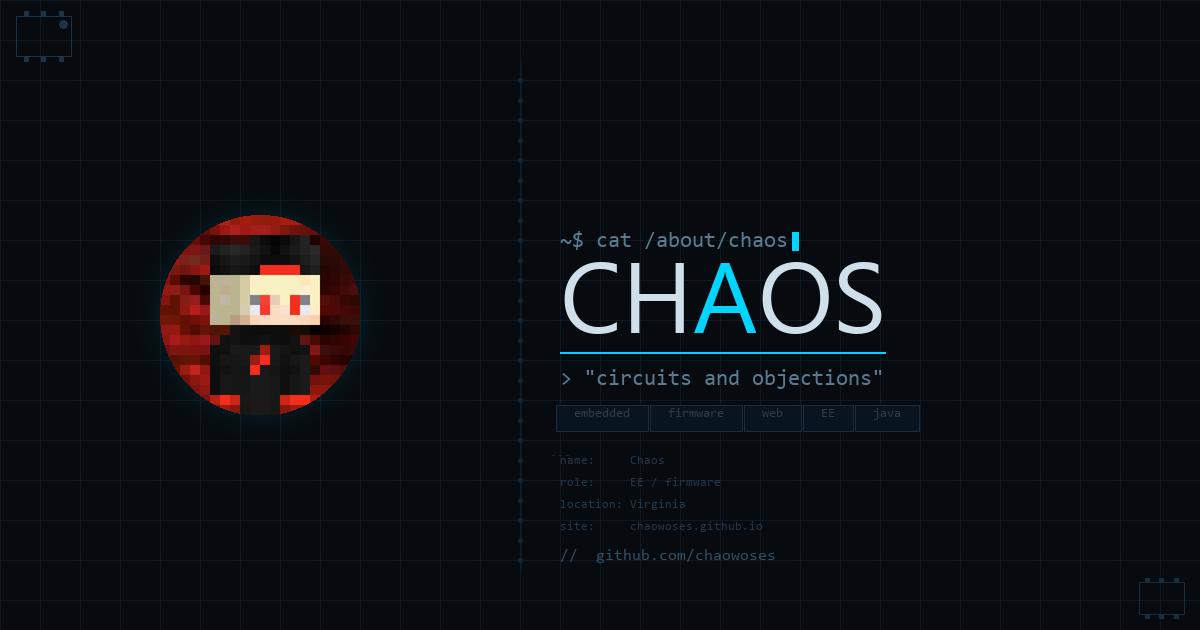
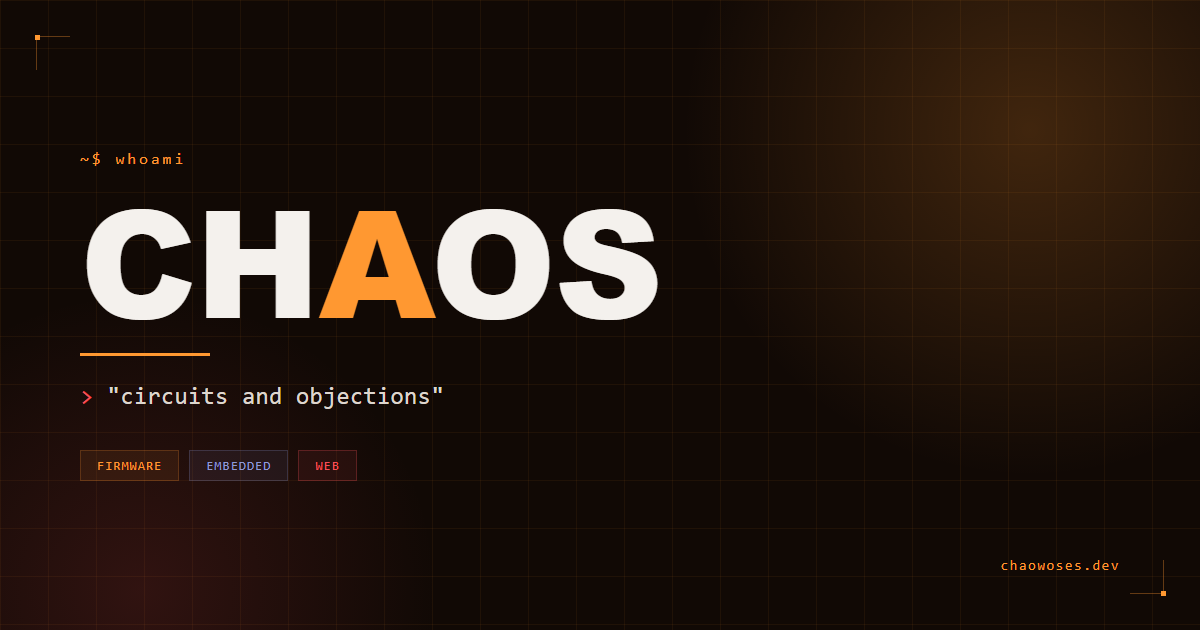
chore: update text to new domain

diff --git a/index.html b/index.html
@@ -6,14 +6,14 @@
 <title>chaowoses</title>
 <meta property="og:title" content="chaowoses">
 <meta property="og:description" content="circuits and objections">
-<meta property="og:url" content="https://chaowoses.github.io">
+<meta property="og:url" content="https://chaowoses.dev">
 <meta property="og:type" content="website">
-<meta property="og:image" content="https://chaowoses.github.io/og-image.png">
+<meta property="og:image" content="https://chaowoses.dev/og-image.png">
 <meta property="og:image:width" content="1200">
 <meta property="og:image:height" content="630">
 <meta property="og:image:type" content="image/png">
 <meta name="twitter:card" content="summary_large_image">
-<meta name="twitter:image" content="https://chaowoses.github.io/og-image.png">
+<meta name="twitter:image" content="https://chaowoses.dev/og-image.png">
 <meta name="description" content="circuits and objections">
 <link rel="icon" href="favicon.png">
 <link rel="preconnect" href="https://fonts.googleapis.com">
@@ -37,7 +37,7 @@
 <div id="bg3d"></div>
 
 <section id="hero">
-  <div class="hero-pre">// chaowoses.github.io</div>
+  <div class="hero-pre">// chaowoses.dev</div>
   <h1 class="hero-name"><span class="c">C</span>HAOS</h1>
   <p class="hero-sub">
     <strong>"Can I build that myself?"</strong><br>Usually, yes. Results may vary. Either way, I end up learning something interesting.
@@ -88,7 +88,7 @@
       </div>
       <div class="proj-links">
         <a href="https://github.com/chaowoses/LottBespittingDiode" target="_blank" class="proj-link"><svg xmlns="http://www.w3.org/2000/svg" width="16" height="16" viewBox="0 0 24 24" fill="none" stroke="currentColor" stroke-width="2" stroke-linecap="round" stroke-linejoin="round"><path d="M9 19c-5 1.5-5-2.5-7-3m14 6v-3.87a3.37 3.37 0 0 0-.94-2.61c3.14-.35 6.44-1.54 6.44-7A5.44 5.44 0 0 0 20 4.77 5.07 5.07 0 0 0 19.91 1S18.73.65 16 2.48a13.38 13.38 0 0 0-7 0C6.27.65 5.09 1 5.09 1A5.07 5.07 0 0 0 5 4.77a5.44 5.44 0 0 0-1.5 3.78c0 5.42 3.3 6.61 6.44 7A3.37 3.37 0 0 0 9 18.13V22"></path></svg> View on GitHub</a>
-        <a href="https://chaowoses.github.io/LottBespittingDiode" target="_blank" class="proj-link p"><svg xmlns="http://www.w3.org/2000/svg" width="16" height="16" viewBox="0 0 24 24" fill="none" stroke="currentColor" stroke-width="2" stroke-linecap="round" stroke-linejoin="round"><path d="M12 6h-6a2 2 0 0 0-2 2v10a2 2 0 0 0 2 2h10a2 2 0 0 0 2-2v-6"></path><path d="M11 13l9-9"></path><path d="M15 4h5v5"></path></svg> Open Project Page</a>
+        <a href="https://chaowoses.dev/LottBespittingDiode" target="_blank" class="proj-link p"><svg xmlns="http://www.w3.org/2000/svg" width="16" height="16" viewBox="0 0 24 24" fill="none" stroke="currentColor" stroke-width="2" stroke-linecap="round" stroke-linejoin="round"><path d="M12 6h-6a2 2 0 0 0-2 2v10a2 2 0 0 0 2 2h10a2 2 0 0 0 2-2v-6"></path><path d="M11 13l9-9"></path><path d="M15 4h5v5"></path></svg> Open Project Page</a>
       </div>
     </div>
     <div class="proj-card">
@@ -100,7 +100,7 @@
       </div>
       <div class="proj-links">
         <a href="https://github.com/chaowoses/Bailiff" target="_blank" class="proj-link"><svg xmlns="http://www.w3.org/2000/svg" width="16" height="16" viewBox="0 0 24 24" fill="none" stroke="currentColor" stroke-width="2" stroke-linecap="round" stroke-linejoin="round"><path d="M9 19c-5 1.5-5-2.5-7-3m14 6v-3.87a3.37 3.37 0 0 0-.94-2.61c3.14-.35 6.44-1.54 6.44-7A5.44 5.44 0 0 0 20 4.77 5.07 5.07 0 0 0 19.91 1S18.73.65 16 2.48a13.38 13.38 0 0 0-7 0C6.27.65 5.09 1 5.09 1A5.07 5.07 0 0 0 5 4.77a5.44 5.44 0 0 0-1.5 3.78c0 5.42 3.3 6.61 6.44 7A3.37 3.37 0 0 0 9 18.13V22"></path></svg> View on GitHub</a>
-        <a href="https://chaowoses.github.io/Bailiff" target="_blank" class="proj-link p"><svg xmlns="http://www.w3.org/2000/svg" width="16" height="16" viewBox="0 0 24 24" fill="none" stroke="currentColor" stroke-width="2" stroke-linecap="round" stroke-linejoin="round"><path d="M12 6h-6a2 2 0 0 0-2 2v10a2 2 0 0 0 2 2h10a2 2 0 0 0 2-2v-6"></path><path d="M11 13l9-9"></path><path d="M15 4h5v5"></path></svg> Open Project Page</a>
+        <a href="https://chaowoses.dev/Bailiff" target="_blank" class="proj-link p"><svg xmlns="http://www.w3.org/2000/svg" width="16" height="16" viewBox="0 0 24 24" fill="none" stroke="currentColor" stroke-width="2" stroke-linecap="round" stroke-linejoin="round"><path d="M12 6h-6a2 2 0 0 0-2 2v10a2 2 0 0 0 2 2h10a2 2 0 0 0 2-2v-6"></path><path d="M11 13l9-9"></path><path d="M15 4h5v5"></path></svg> Open Project Page</a>
       </div>
     </div>
   </div>

diff --git a/README.md b/README.md
@@ -1,4 +1,4 @@
-# [chaowoses.github.io](https://chaowoses.github.io)
+# [chaowoses.dev](https://chaowoses.dev)
 
 Personal landing page. *Circuits and objections.*
 
